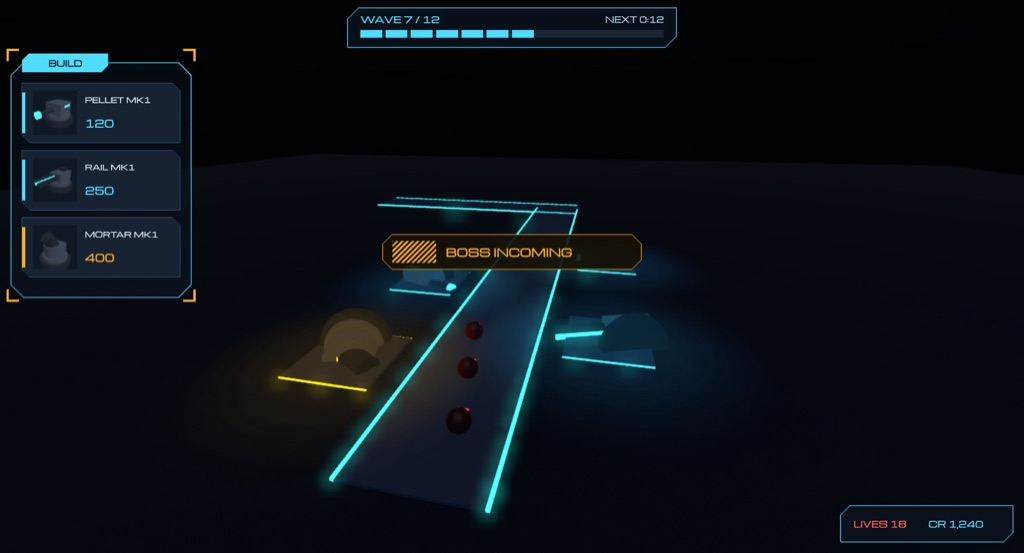
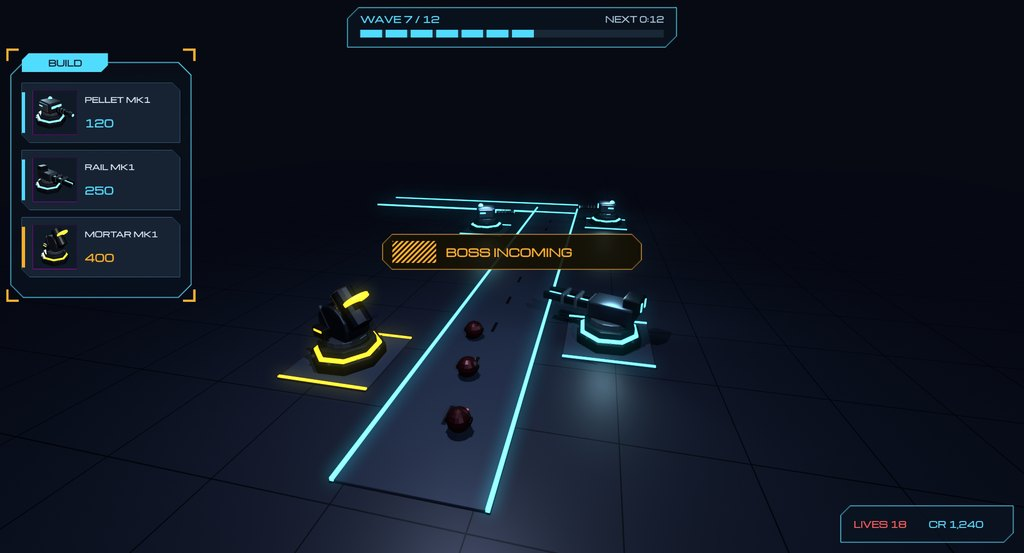
fix: sci-fi card art from Blender, no part-built turrets

diff --git a/plugins/roblox-skills/skills/roblox-game-pipeline/assets/ui-styles/README.md b/plugins/roblox-skills/skills/roblox-game-pipeline/assets/ui-styles/README.md
@@ -10,7 +10,7 @@ Evidence: the live Explore API charts on 2026-11-03 (top-playing-now, top-trendi
 | 2 | Stud chunky | `stud-chunky.jpg` | Chunky dark slate frame with a thick black outline, bolted plates and glowing crystal tanks on the corners, big white lettered header, a 3x2 grid of dark item cards with stock or timer labels and green gem price chips; green labeled side buttons on the left, round icon buttons on the right | Simulators, tycoons, steal/collect, "+1" clickers, pets and eggs | Steal An Egg experiment shop | Simulator row |
 | 3 | Bright cartoon cards | `bright-cards.jpg` | Navy panel under an orange-to-yellow gradient header bar, a Featured pill, a rainbow gradient featured banner with a LIMITED tag and Buy 1 / Buy 3 buttons, a green gradient boost row with a GIFT button, big rounded type | Pet collecting, kid games, tap games, featured offers and limited eggs | Throw Food For Animals shop | Simulator or Cozy row |
 | 4 | Dark flat compact | `dark-flat.jpg` | Near-black flat panel with a thin edge, an evolution tree of small dark tiles in tier rows with connector lines, locked tiles as silhouettes with "???", small pill tags (NEXT blue, UNLOCK! yellow, LV green), a detail card with stat bars and letter grades, one wide green SELECT button, a red square close | Evolution, upgrade and skill trees, collection and index screens with locked silhouettes, stat-heavy screens, survival, shooters, battlegrounds, RPG, tower defense | Bug Evolution bug tree | Anime/battlegrounds or Sci-fi row |
-| 5 | Sci-fi or military | `sci-fi.jpg` | Translucent near-black blue glass with cut corners and a thin cyan edge, a build list of cards with a cyan or amber role bar, a segmented wave bar, an amber hazard-striped boss warning, corner brackets, a resource readout | Tower defense, shooters, mechs, space, defense command | none: our Studio render (2026-11-09) of `roblox-ui-genre-scifi` `scripts/hud_shapes.luau` over a part-built night lane, with renders of part-built turrets in the icon slots | Sci-fi row |
+| 5 | Sci-fi or military | `sci-fi.jpg` | Translucent near-black blue glass with cut corners and a thin cyan edge, a build list of cards with a cyan or amber role bar, a segmented wave bar, an amber hazard-striped boss warning, corner brackets, a resource readout | Tower defense, shooters, mechs, space, defense command | none: our Studio render (2026-11-09) of `roblox-ui-genre-scifi` `scripts/hud_shapes.luau`, composited over a Blender render of our own turrets, drones and lane (headless, no uploads), with the turret renders in the icon slots | Sci-fi row |
 
 Other looks seen on the 2026-11-03 chart, for words or a live reference: Steal A Pet And Ride It (rarity-colored trail cards), Break and Steal an Egg (dark index with a big claim bar), Tap Simulator REBORN (gradient token cards), Fish It (translucent charcoal with gradient banners), Anime Dice index (navy grid of hidden silhouettes with odds labels and gold frames on rare slots; build it as a UIGridLayout of slots with an odds TextLabel, a gold UIStroke on rare slots and a ScrollingFrame past 12 slots), Tower Defense Simulator (true flat dark).
 
